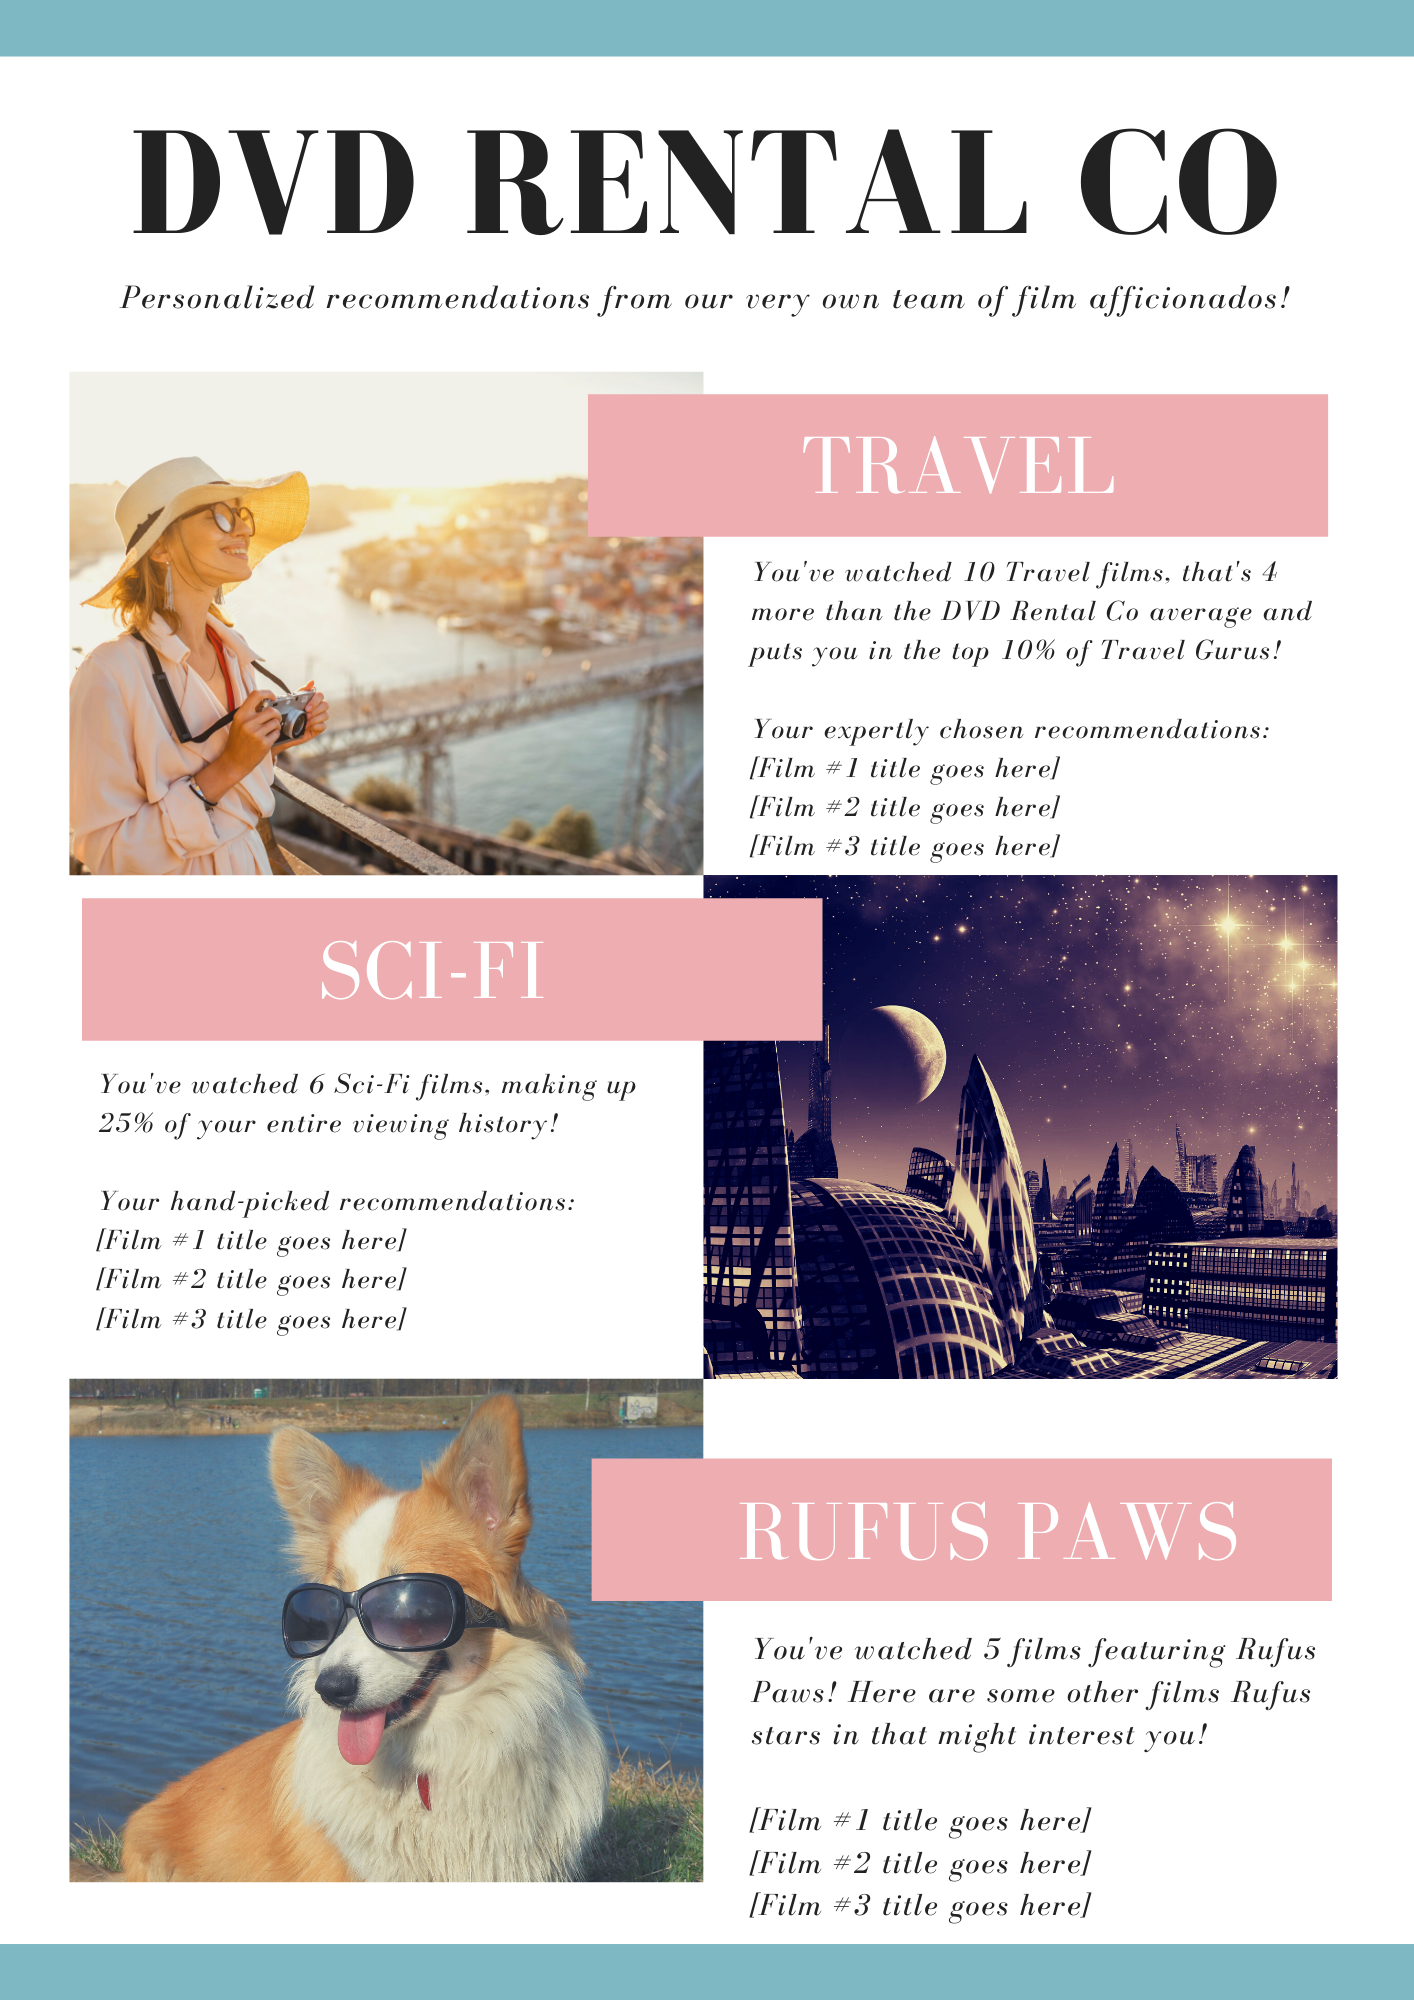
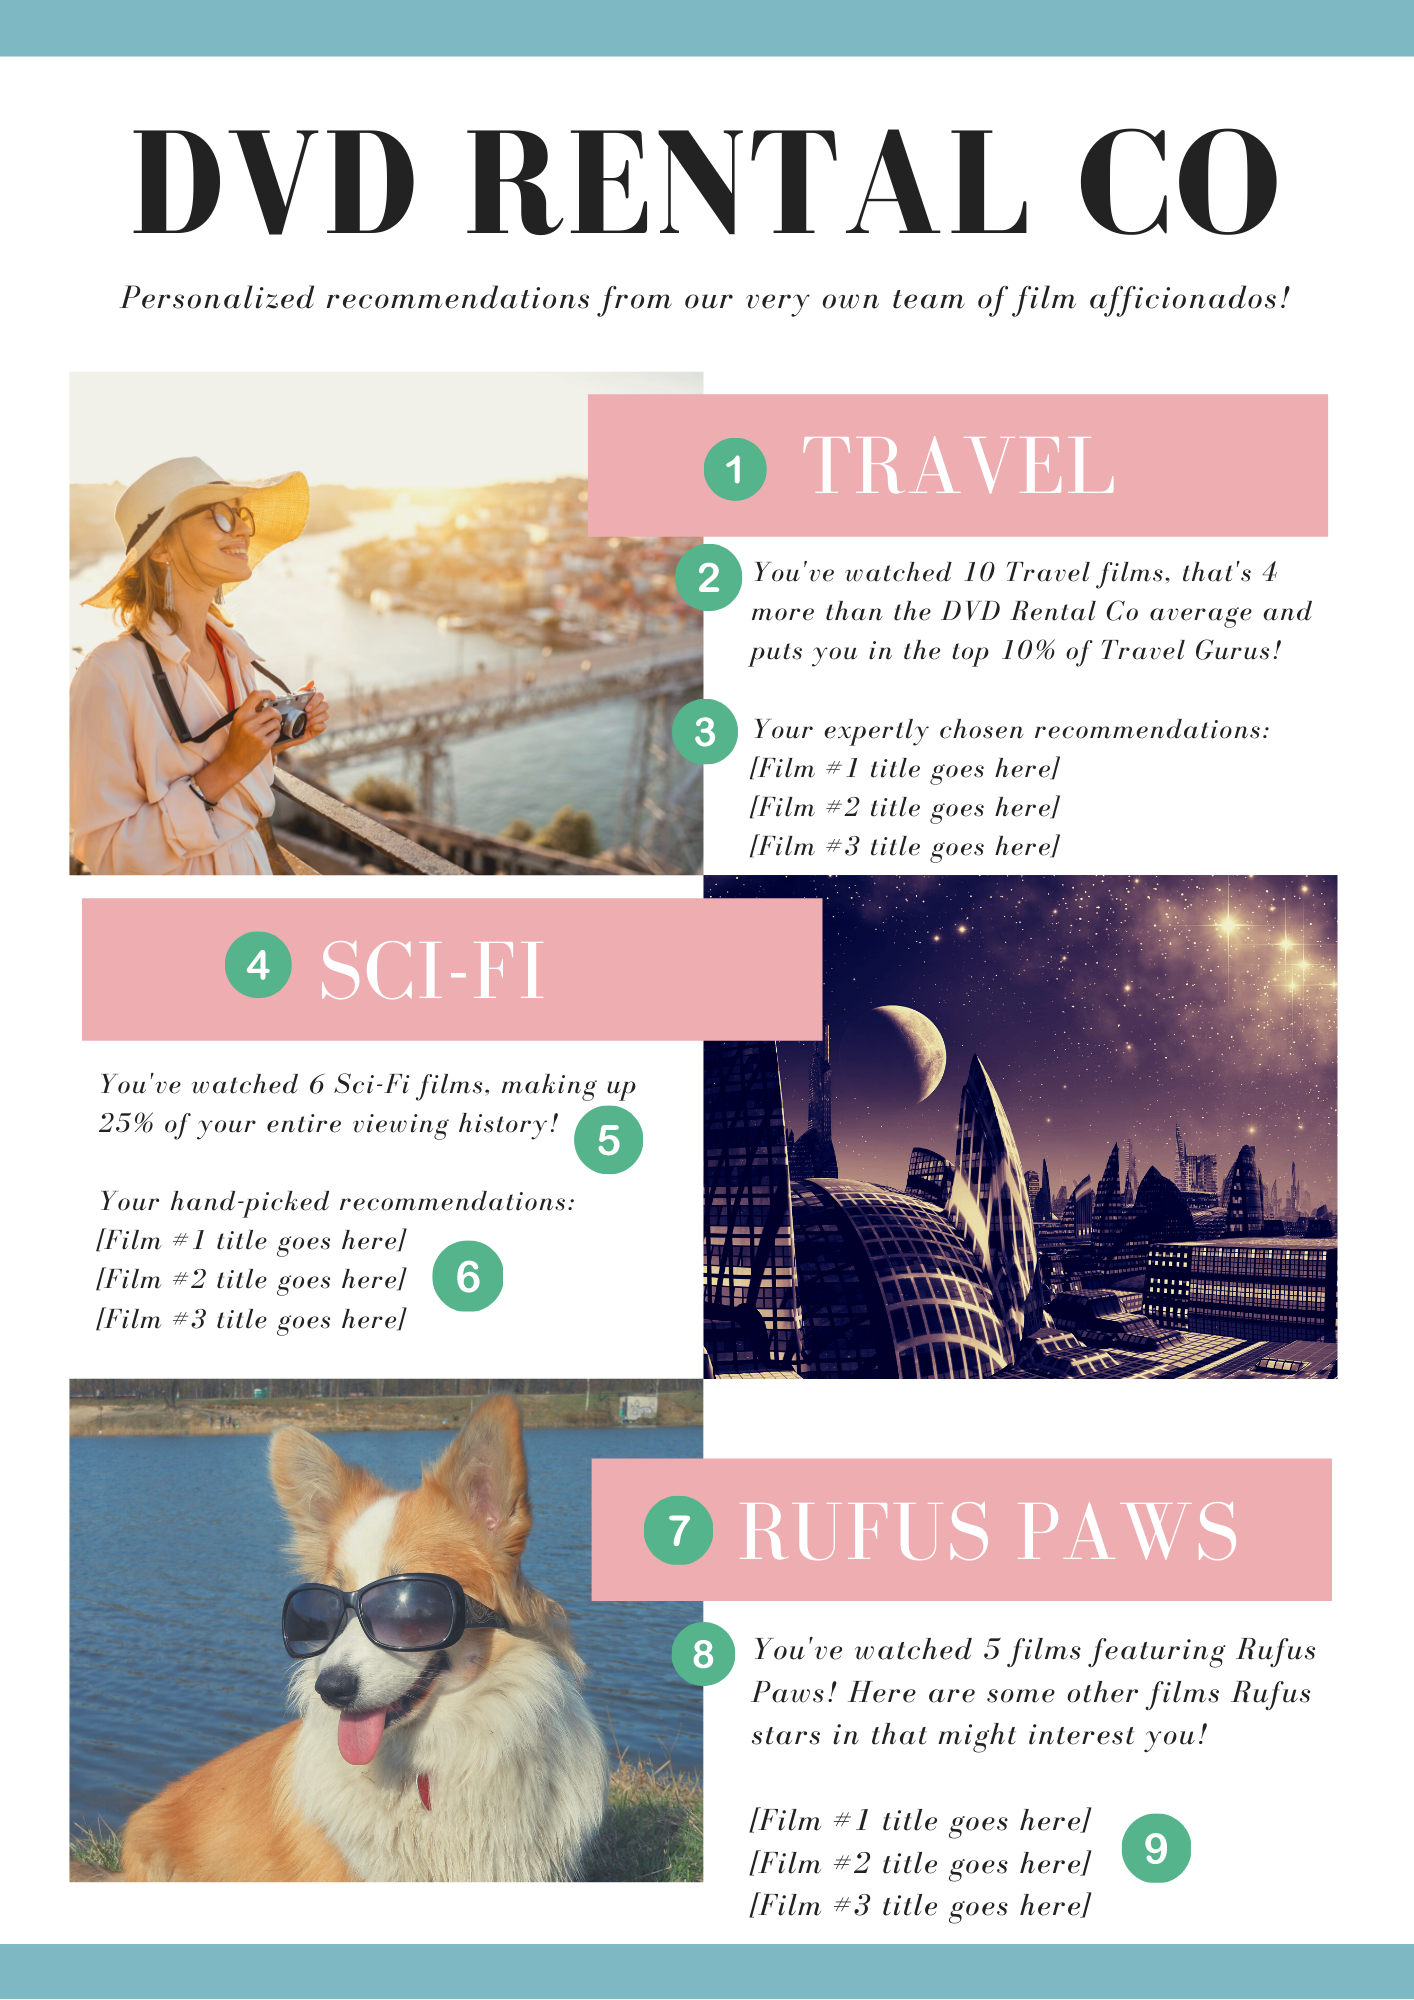
Added a few lines

diff --git a/People_Analytics/README.md b/People_Analytics/README.md
@@ -1,0 +1,70 @@
+# People Analytics Portfolio Project
+
+## Overview
+This project focuses on People Analytics, leveraging data to provide insights into workforce trends, employee performance, and organizational dynamics. The goal is to use data analytics techniques to support decision-making and improve human resource strategies.
+
+## Objectives
+- Analyze workforce data to identify trends and patterns.
+- Develop visualizations to communicate insights effectively.
+- Provide actionable recommendations for HR and management teams.
+
+## Tools and Technologies
+- **SQL**: For data extraction and transformation.
+- **Python**: For data analysis and visualization.
+- **Tableau/Power BI**: For creating interactive dashboards.
+- **Excel**: For preliminary data exploration and reporting.
+
+## Key Features
+1. **Employee Retention Analysis**:
+    - Identify factors contributing to employee turnover.
+    - Predict high-risk employees using machine learning models.
+
+2. **Diversity and Inclusion Metrics**:
+    - Analyze workforce demographics.
+    - Track progress on diversity and inclusion goals.
+
+3. **Performance and Productivity Insights**:
+    - Correlate employee performance with organizational outcomes.
+    - Identify top-performing teams and individuals.
+
+4. **Recruitment Analytics**:
+    - Evaluate the effectiveness of recruitment channels.
+    - Optimize hiring processes based on data-driven insights.
+
+## Data Sources
+- Employee records (e.g., demographics, tenure, performance ratings).
+- Surveys (e.g., employee satisfaction, engagement).
+- Recruitment data (e.g., application sources, time-to-hire).
+- HRIS (Human Resource Information System) data.
+
+## Deliverables
+- Cleaned and transformed datasets.
+- Analytical reports and insights.
+- Interactive dashboards for stakeholders.
+- Documentation of methodologies and findings.
+
+## Future Enhancements
+- Incorporate advanced machine learning models for predictive analytics.
+- Automate data pipelines for real-time insights.
+- Expand the scope to include external labor market data.
+
+## How to Use
+1. Clone the repository:
+    ```bash
+    git clone https://github.com/yourusername/People_Analytics.git
+    ```
+2. Navigate to the project directory:
+    ```bash
+    cd People_Analytics
+    ```
+3. Follow the instructions in the `setup.md` file to configure the environment.
+
+## Contributing
+Contributions are welcome! Please submit a pull request or open an issue for any suggestions or improvements.
+
+## License
+This project is licensed under the [MIT License](LICENSE).
+
+
+
+

diff --git a/Marketing_Analytics/README.md b/Marketing_Analytics/README.md
@@ -1,21 +1,29 @@
 # Marketing Analytics Case Study
 
+## 1. 📚 Introduction
 This Case Study focuses on leveraging SQL to prepare data for a marketing campaign and derive actionable insights. The goal is to help a DVD rental business engage customers on an individual level, based on their past behavior.
 
-![DVD RENTAL CO](dvd_rental.png)
-
-## Key Features
+### 1.1 🗝 Key Features
 
 - **Data Exploration**: Analyze customer demographics, rent patterns, and engagement metrics.
 - **Communication**: Prepare data for email to present insights effectively.
 
-## Tools and Technologies
 
-- **SQL**: For querying and transforming data.
-- **Database**: Relational databases (PostgreSQL).
-
-## Outcomes
+### 1.2 Outcomes
 
 - Improved understanding of customer behavior.
 - Customised marketing emails based on data insights.
 - Optimized campaign performance and ROI.
+
+## 2. Requirements Analysis
+
+The DVD Rental Co marketing department has requested for help getting the data needed to fuel their first ever customer email campaign. They shared a template of the email they will send to each customer and after analysing it, we have a broad idea of what data we need to provide. We have split these main ruquirements into 9 main insights.
+
+![alt text](dvd_rental.png)
+
+
+
+| Insight   | Description   | Remark     |
+| ----------| --------------------------------------- | ----------- |
+| 1 and 4   | Top 2 categories for each customer.     |   -         |
+| 2 and 5   | Insigts for each customer, based on the category identified in (I) | - |

diff --git a/README.md b/README.md
@@ -1,6 +1,6 @@
 # Serious SQL Projects
 
-## Introduction
+## 📚 Introduction
 
 This repository contains solutions to the case studies in the [Serious SQL course](https://www.datawithdanny.com/courses/serious-sql) at *Data with Danny*.
 
@@ -19,14 +19,12 @@ Table of Contents
  1. deploying the serious-sql-environment github repository on gitpod.
  2. deploying the serious-sql-environment container locally on Docker.
 
-## Technologies Used
+## 🛠 Tools and Technologies Used
 
+- **SQL**: For querying and transforming data.
+- **Database**: Relational databases (PostgreSQL).
 The use of containers for setting up the databases ensures that these projects are entirely focused on (postgres) SQL
 
 ## Repo Structure
 
 Each case study or challenge has its own folder with a `README.md` that explains what it is about and how it was handled.
-
-## Contact Information
-
-You can reach out for questions, collaboration, or more information about this project.
